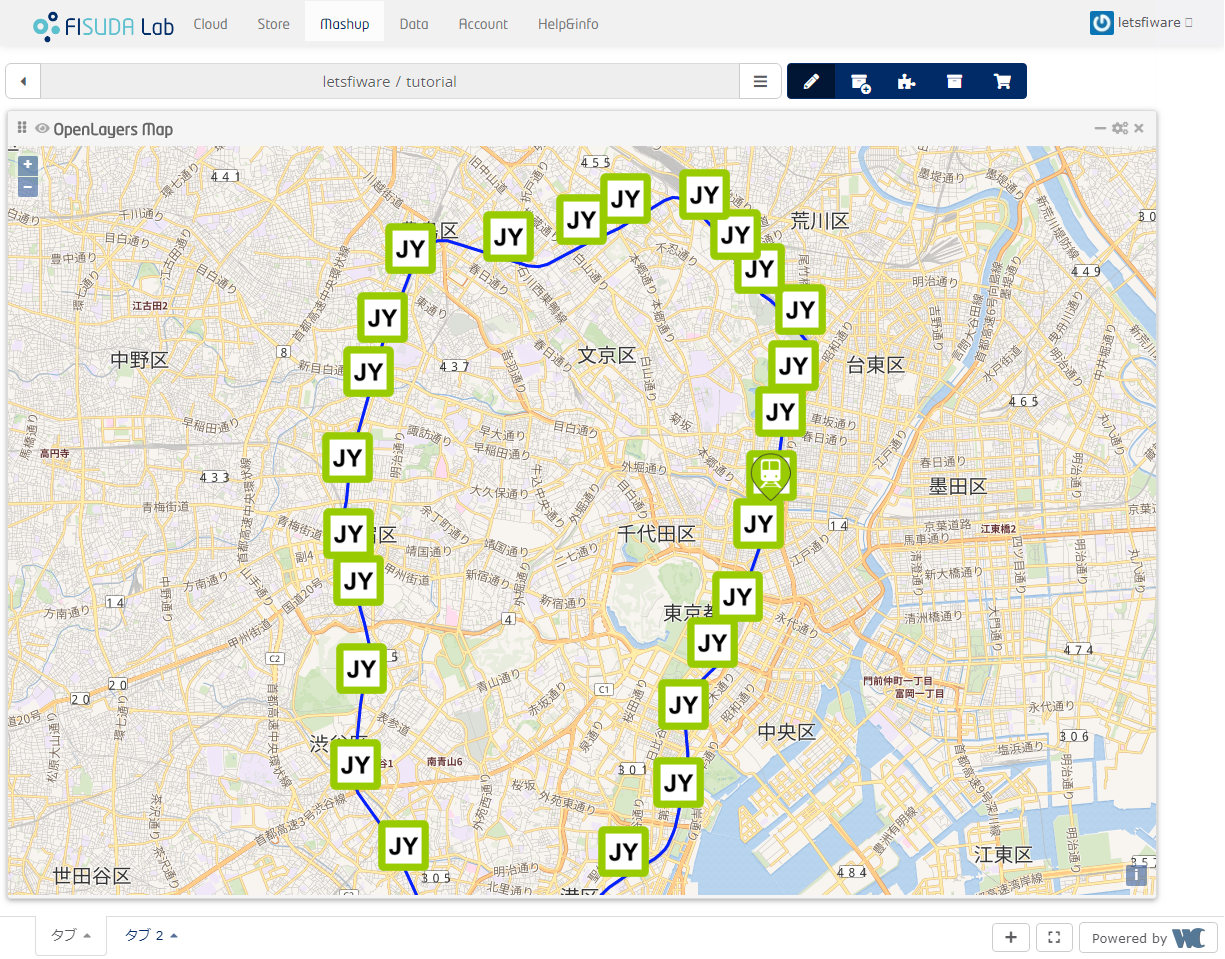
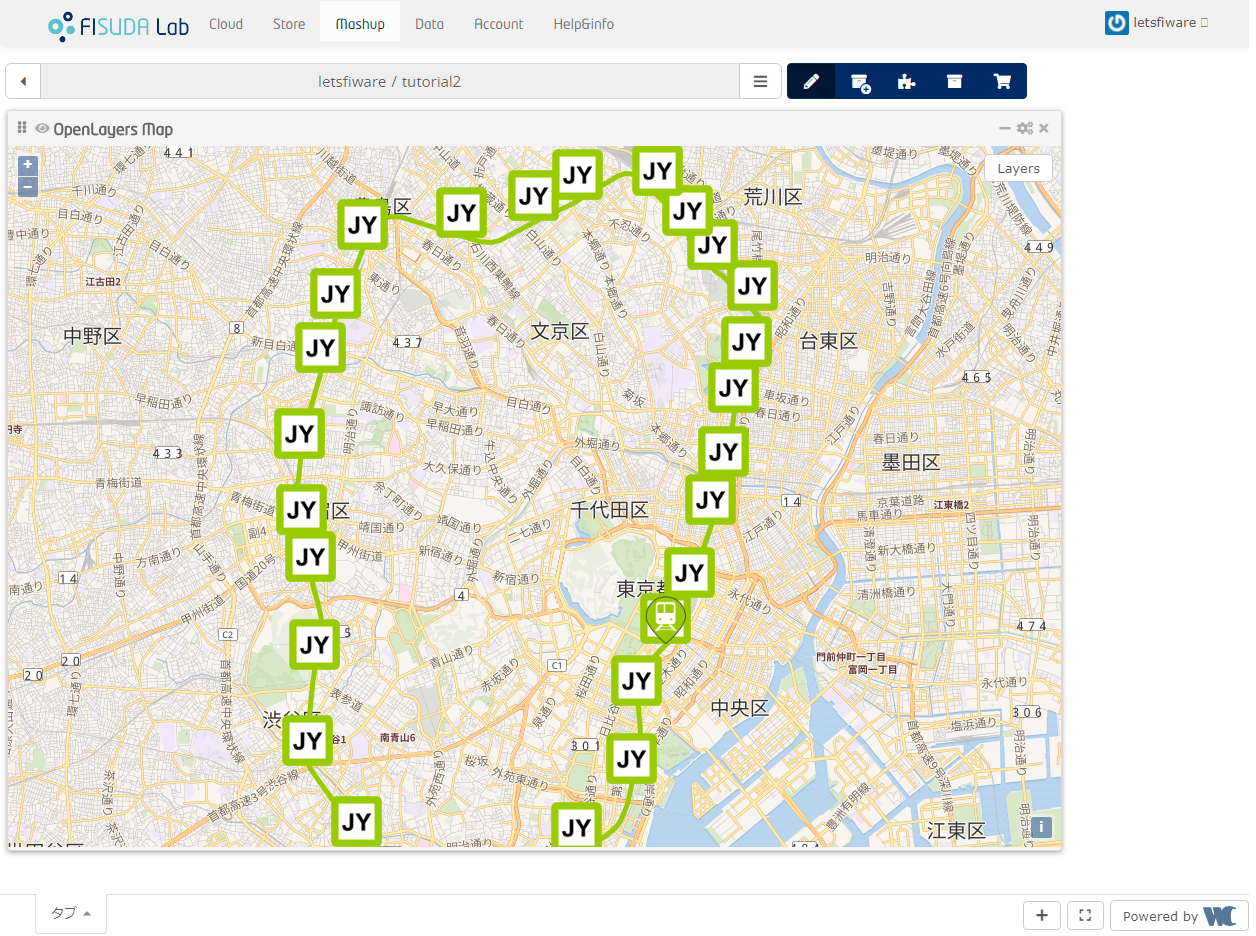
update context-producer and train-datamodel2poi

diff --git a/context-producer/context-producer.js b/context-producer/context-producer.js
@@ -1,11 +1,11 @@
 'use strict';
 
 const config = require('./config');
-const rp = require('request-promise');
-
+const request = require('request');
 const orionUrl = deleteTrailingSlash(config.orion_url);
 const fiwareService = config.fiwareService;
 const fiwareServicePath = config.fiwareServicePath;
+const trains = config.trains;
 const interval = config.interval * 1000;
 
 var trainRoute = {
@@ -200,43 +200,32 @@ var trainLocation = [
 function deleteTrailingSlash(url) {
   return url.substr(-1, 1) != '/' ? url : url.slice(0, -1);
 }
-async function appendRequest(entities) {
 
-    var headers = {
-      'Content-Type': 'application/json',
-      'Fiware-Service': fiwareService,
-      'Fiware-ServicePath': fiwareServicePath
-    };
+function appendRequest(entities) {
+  var headers = {
+    'Content-Type': 'application/json',
+    'Fiware-Service': fiwareService,
+    'Fiware-ServicePath': fiwareServicePath
+  };
+  
+  var options = {
+      url: orionUrl + '/v2/op/update',
+      method: 'POST',
+      headers: headers,
+      json: {
+        "actionType": "append",
+        "entities": entities
+      }
+  };
     
-    var options = {
-        url: orionUrl + '/v2/op/update',
-        method: 'POST',
-        headers: headers,
-        json: {
-          "actionType": "append",
-          "entities": entities
-        }
-    };
-    
-    var ret;
-    try {
-      await rp(options, function (error, response, body) {
-        if (error) {
-          console.log('appendRequest: ' + error.message);
-          process.exit(1);
-        }
-        ret = [response.statusCode, response.statusMessage]; // 204 No Content
-      });
-    } catch (e) {
-      console.error(e);
-    } finally {
-      return ret;
+  request(options, function (error, response, body) {
+    if (error || response.statusCode !== 204)  {
+      console.log('error');
     }
+  });
 }
 
 async function run() {
-  console.log("Start");
-
   let entities = [];
 
   stationLocation.forEach(station => {
@@ -262,24 +251,32 @@ async function run() {
 
   console.log("add station");
 
+  if (trains < 1 || trains > 5) {
+      trains = 3;
+  }
+
   while (true) {
     for (let i = 0; i < trainLocation.length; i++) {
-      console.log(trainLocation[i]);
-      appendRequest([{
-        id: 'urn:ngsi-ld:Train:Train001',
-        type: 'Train',
-        name: {
-          type: 'Text',
-          value: 'Train001'
-        },
-        location: {
-          type: 'geo:json',
-          value: {
-            type: 'Point',
-            coordinates: trainLocation[i]
+      entities= [];
+      for (let j = 0; j < trains; j++) {
+        let pos = (i + j * Math.floor(trainLocation.length / trains)) % trainLocation.length;
+        entities.push({
+          id: 'urn:ngsi-ld:Train:Train00' + j ,
+          type: 'Train',
+          name: {
+            type: 'Text',
+            value: 'Train00' + j
+          },
+          location: {
+            type: 'geo:json',
+            value: {
+              type: 'Point',
+              coordinates: trainLocation[pos]
+            }
           }
-        }
-      }]);
+        });
+      }
+      appendRequest(entities);
       await sleep(interval);
     }
   }

diff --git a/train-datamodel2poi/src/js/main.js b/train-datamodel2poi/src/js/main.js
@@ -55,7 +55,7 @@
             infoWindow: null,
             currentLocation: coordinates,
             location: entity.location,
-            style: {'color': entity.lineColor, 'width': 5},
+            style: { stroke: {'color': entity.lineColor, 'width': 5} },
             selectable: false
         };
 

diff --git a/README.md b/README.md
@@ -74,41 +74,3 @@ grunt
 | --- | --- |
 | Initial location | 139.740376, 35.695539 |
 | Initial Zoom Level | 13 |
-
-
-## Patch ol3-map-widget.js in ol3-map-widget
-
-line 116
-
-- before
-
-```Javascript
-        let stroke = options.style.stroke;
-        if (stroke == null) {
-            stroke = {
-                color: 'blue',
-                width: 3
-            };
-        } else if (typeof stroke === "string") {
-            stroke = {
-                color: stroke,
-                width: 3
-            };
-        }
-```
-
-- after
-
-```Javascript
-        let color = options.style.color;
-        color = color == null ? 'blue' : color;
-        let width = options.style.width;
-        width = width == null ? 3 : width;
-
-        let stroke = {
-            color: color,
-            width: width
-        };
-```
-
-![](./img/screen6.png)
